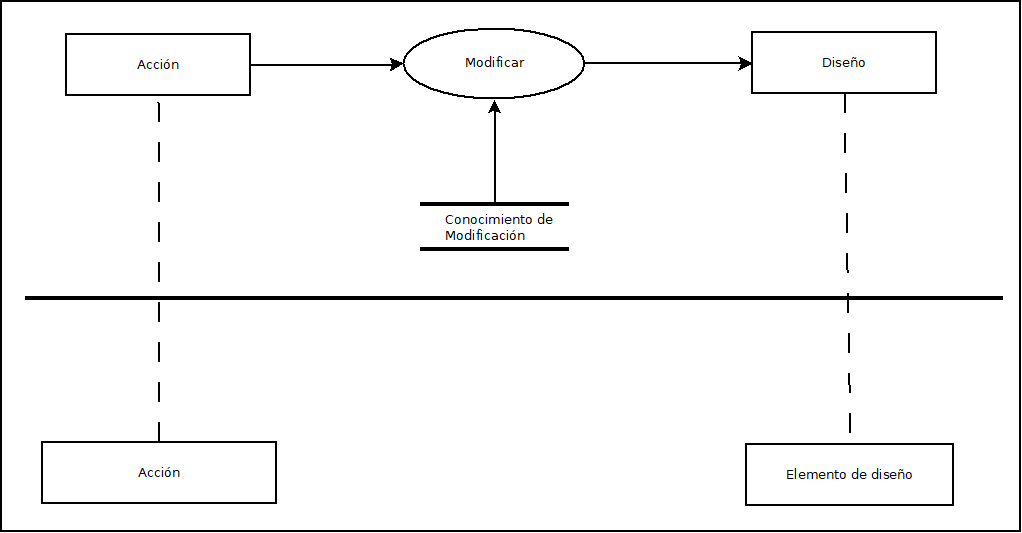
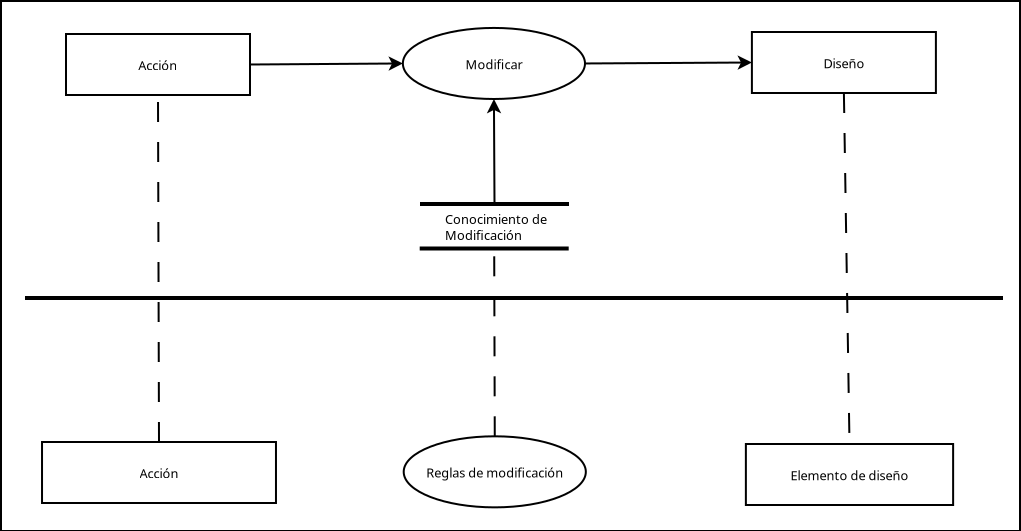
Añadido a latex los mapeos seleccionar y modificar

diff --git a/contido/Tema_3.tex b/contido/Tema_3.tex
@@ -334,3 +334,27 @@ La Figura \ref{fig:ViolacionCriticarListaAciones} muestra el mapeo de la inferen
   \includegraphics[scale=0.35]{imaxes/ViolacionCriticarListaAciones.png}
   \caption{\label{fig:ViolacionCriticarListaAciones}Mapeado de \textit{Criticar} la violación del diseño.}
 \end{figure}
+
+La Figura \ref{fig:ListaAccionesSeleccionarAccion} muestra el mapeo de la inferencia \textbf{Seleccionar} acción de la lista de acciones.
+
+\begin{figure}[H]
+  \centering
+  \includegraphics[scale=0.35]{imaxes/ListaAccionesSeleccionarAccion.png}
+  \caption{\label{fig:ListaAccionesSeleccionarAccion}Mapeado de \textit{Seleccionar} accion de la lista de acciones.}
+\end{figure}
+
+La Figura \ref{fig:AccionModificaDiseno} muestra el mapeo de la inferencia \textbf{Modificar} diseño.
+
+\begin{figure}[H]
+  \centering
+  \includegraphics[scale=0.35]{imaxes/AccionModificaDiseno.png}
+  \caption{\label{fig:AccionModificaDiseno}Mapeado de \textit{Modificar} diseño.}
+\end{figure}
+
+La Figura \ref{fig:DisenoModificarDiseno} muestra el mapeo de la inferencia \textbf{Modificar} diseño desde diseño.
+
+\begin{figure}[H]
+  \centering
+  \includegraphics[scale=0.35]{imaxes/DisenoModificarDiseno.png}
+  \caption{\label{fig:DisenoModificarDiseno}Mapeado de \textit{Modificar} diseño desde diseño.}
+\end{figure}
